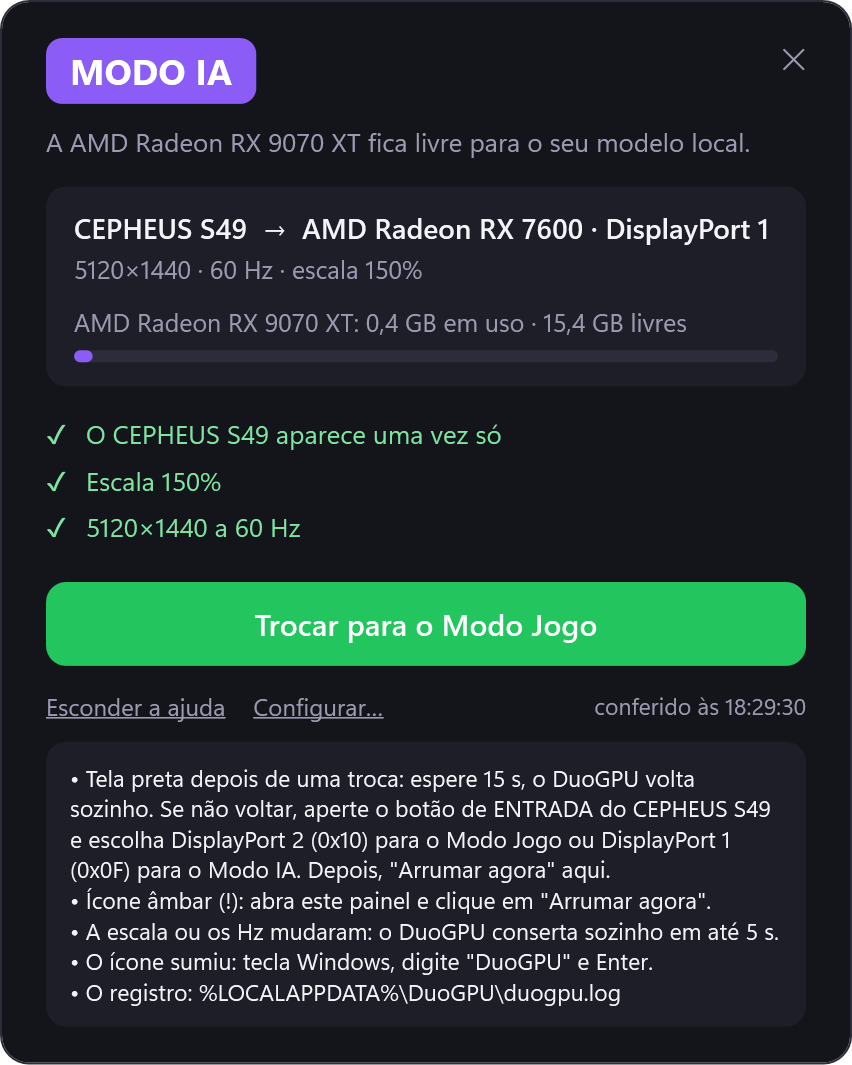
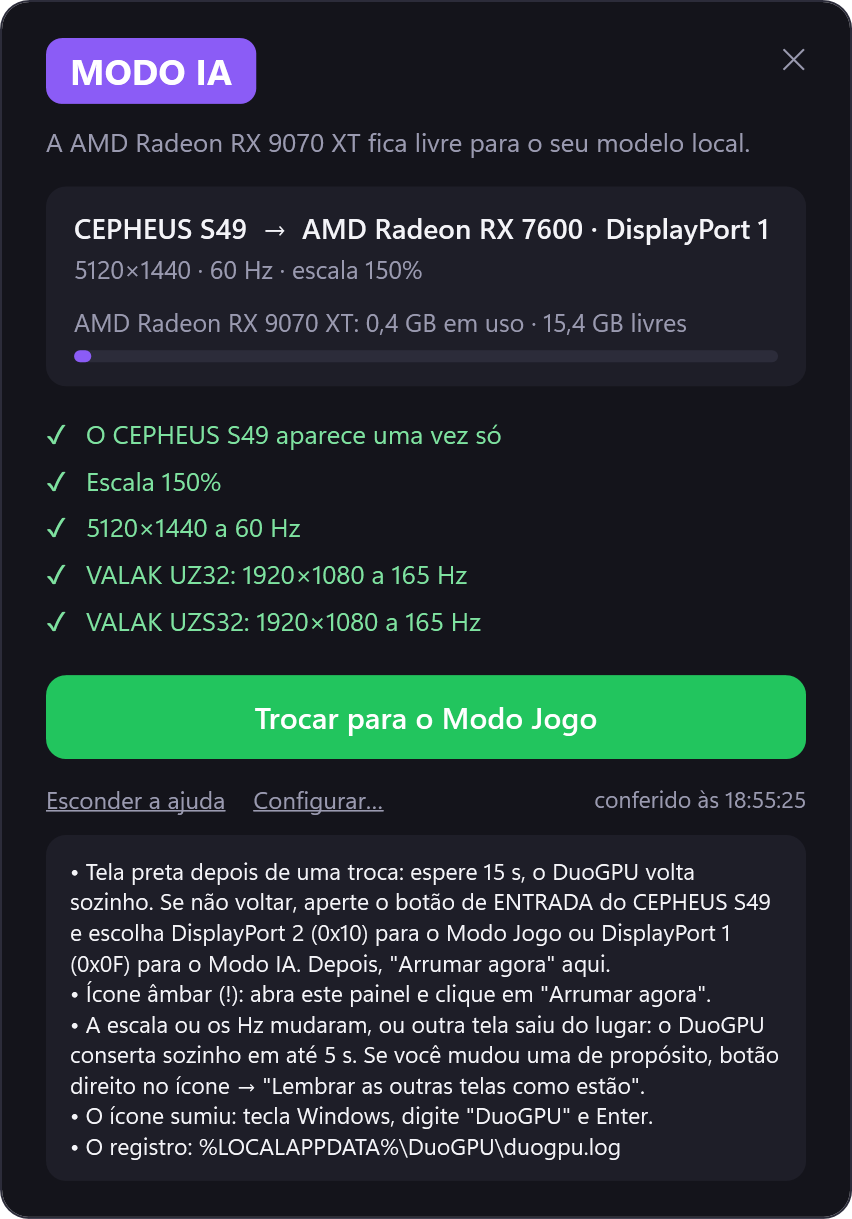
feat: the guard keeps the other monitors as saved
The setup saves the size, refresh rate and place of every monitor DuoGPU
does not move, and the guard checks them every 5 seconds: a monitor dropped
to 60 Hz or moved is put back, one that is off turns the icon amber.
"Remember the other monitors" and `remember` save them again; `fix` runs
the safe repairs once. Version 0.2.0.

diff --git a/tests/DuoGPU.Tests/CoreTests.cs b/tests/DuoGPU.Tests/CoreTests.cs
@@ -145,3 +145,80 @@ public class ConfigTests
         }
     }
 }
+
+public class OtherMonitorsTests
+{
+    const string Shared = "VIE0490";
+
+    static OutputInfo Out(string gdi, string monitor, int x, int y, int w = 1920, int h = 1080, int hz = 165, bool active = true) =>
+        new(gdi, null, 0, active, [monitor], active ? new Gdi.Placement(x, y, w, h, hz) : null);
+
+    static readonly OutputInfo[] Desk =
+    [
+        Out(@"\.\DISPLAY29", Shared, 0, 0, 5120, 1440, 60),
+        Out(@"\.\DISPLAY28", "MCR3150", 640, -1080),
+        Out(@"\.\DISPLAY30", "CJH3150", 2560, -1080),
+    ];
+
+    static Dictionary<string, SavedOutput> Saved() => new()
+    {
+        ["MCR3150"] = new(640, -1080, 1920, 1080, 165),
+        ["CJH3150"] = new(2560, -1080, 1920, 1080, 165),
+    };
+
+    static string Name(string id) => id;
+
+    [Fact]
+    public void Everything_in_place_gives_one_ok_line_per_monitor()
+    {
+        var checks = OtherMonitors.Compare(Saved(), Desk, Shared, Name);
+        Assert.Equal(2, checks.Count);
+        Assert.All(checks, c => Assert.True(c.Ok));
+        Assert.All(checks, c => Assert.Equal(CheckKind.OtherMode, c.Kind));
+    }
+
+    [Fact]
+    public void The_shared_monitor_is_never_one_of_the_others() =>
+        Assert.DoesNotContain(OtherMonitors.Compare(Saved(), Desk, Shared, Name), c => c.Detail.Contains(Shared));
+
+    [Fact]
+    public void A_lower_refresh_is_found_and_can_be_fixed()
+    {
+        var desk = Desk.ToArray();
+        desk[1] = Out(@"\.\DISPLAY28", "MCR3150", 640, -1080, hz: 60);
+        var bad = Assert.Single(OtherMonitors.Compare(Saved(), desk, Shared, Name), c => !c.Ok);
+        Assert.Equal(CheckKind.OtherMode, bad.Kind);
+        Assert.True(bad.SafeToFix);
+        Assert.Equal(@"\.\DISPLAY28", bad.Target);
+        Assert.Equal(165, bad.Want!.Hz);
+    }
+
+    [Fact]
+    public void A_moved_monitor_is_found_and_can_be_fixed()
+    {
+        var desk = Desk.ToArray();
+        desk[2] = Out(@"\.\DISPLAY30", "CJH3150", 5120, 0);
+        var bad = Assert.Single(OtherMonitors.Compare(Saved(), desk, Shared, Name), c => !c.Ok);
+        Assert.Equal(CheckKind.OtherPosition, bad.Kind);
+        Assert.Equal(new SavedOutput(2560, -1080, 1920, 1080, 165), bad.Want);
+    }
+
+    [Fact]
+    public void A_monitor_that_is_off_needs_the_person()
+    {
+        var desk = new[] { Desk[0], Desk[1], Out(@"\.\DISPLAY30", "CJH3150", 0, 0, active: false) };
+        var bad = Assert.Single(OtherMonitors.Compare(Saved(), desk, Shared, Name), c => !c.Ok);
+        Assert.Equal(CheckKind.OtherMissing, bad.Kind);
+        Assert.False(bad.SafeToFix);
+    }
+
+    [Fact]
+    public void Two_identical_models_are_kept_apart()
+    {
+        var desk = new[] { Desk[0], Out(@"\.\DISPLAY1", "DEL4141", 1920, -1080), Out(@"\.\DISPLAY2", "DEL4141", -1920, 0) };
+        var topo = new Topology { Gpus = [], Outputs = desk, MonitorNames = new Dictionary<string, string>() };
+        var saved = OtherMonitors.Capture(topo, Shared);
+        Assert.Equal(["DEL4141", "DEL4141#2"], saved.Keys.Order().ToArray());
+        Assert.Equal(-1920, saved["DEL4141"].X); // ordered left to right
+    }
+}

diff --git a/src/DuoGPU/Core/OtherMonitors.cs b/src/DuoGPU/Core/OtherMonitors.cs
@@ -1,0 +1,58 @@
+using DuoGPU.Native;
+
+namespace DuoGPU.Core;
+
+/// <summary>How a monitor that DuoGPU does not move was set up when the person saved it.</summary>
+public record SavedOutput(int X, int Y, int Width, int Height, int Hz);
+
+/// <summary>
+/// The monitors DuoGPU does not move. Their place, size and refresh are saved once (at setup, or with "Remember the
+/// other monitors"), and the guard checks them every few seconds: a switch, a driver reset or a game can change them.
+/// </summary>
+public static class OtherMonitors
+{
+    /// <summary>The key of each monitor: its Windows name ("MCR3150"), with "#2", "#3" for identical models.</summary>
+    static List<(string key, OutputInfo output)> Keyed(IEnumerable<OutputInfo> outputs, string sharedMonitor)
+    {
+        var list = new List<(string, OutputInfo)>();
+        var seen = new Dictionary<string, int>();
+        foreach (var o in outputs.Where(o => o.Active && o.Placement != null && !o.MonitorIds.Contains(sharedMonitor))
+                     .OrderBy(o => o.Placement!.X).ThenBy(o => o.Placement!.Y))
+        {
+            var id = o.MonitorIds.FirstOrDefault() ?? o.GdiName;
+            int n = seen[id] = seen.GetValueOrDefault(id) + 1;
+            list.Add((n == 1 ? id : $"{id}#{n}", o));
+        }
+        return list;
+    }
+
+    public static Dictionary<string, SavedOutput> Capture(Topology topo, string sharedMonitor) =>
+        Keyed(topo.Outputs, sharedMonitor).ToDictionary(
+            x => x.key,
+            x => new SavedOutput(x.output.Placement!.X, x.output.Placement.Y, x.output.Placement.Width,
+                x.output.Placement.Height, x.output.Placement.Hz));
+
+    /// <summary>One check per saved monitor: still on, same size and refresh, same place.</summary>
+    public static List<Check> Compare(IReadOnlyDictionary<string, SavedOutput> saved, IEnumerable<OutputInfo> outputs,
+        string sharedMonitor, Func<string, string> nameOf)
+    {
+        var now = Keyed(outputs, sharedMonitor).ToDictionary(x => x.key, x => x.output);
+        var checks = new List<Check>();
+        foreach (var (key, want) in saved)
+        {
+            string name = nameOf(key.Split('#')[0]);
+            if (!now.TryGetValue(key, out var o))
+            {
+                checks.Add(new Check(false, CheckKind.OtherMissing, name, false));
+                continue;
+            }
+            var p = o.Placement!;
+            bool sameMode = p.Width == want.Width && p.Height == want.Height && p.Hz == want.Hz;
+            checks.Add(new Check(sameMode, CheckKind.OtherMode,
+                $"{name}|{p.Width}×{p.Height}|{p.Hz}|{want.Width}×{want.Height}|{want.Hz}", true, o.GdiName, want));
+            if (p.X != want.X || p.Y != want.Y)
+                checks.Add(new Check(false, CheckKind.OtherPosition, name, true, o.GdiName, want));
+        }
+        return checks;
+    }
+}

diff --git a/src/DuoGPU/UI/Strings.cs b/src/DuoGPU/UI/Strings.cs
@@ -69,9 +69,17 @@ public static partial class S
                 : T($"Scale {p[0]} (should be {p[1]})", $"Escala {p[0]} (o certo: {p[1]})"),
             CheckKind.Refresh => c.Ok ? T($"{p[0]} at {p[1]} Hz", $"{p[0]} a {p[1]} Hz")
                 : T($"{p[0]} at {p[1]} Hz (should be {p[2]} Hz)", $"{p[0]} a {p[1]} Hz (o certo: {p[2]} Hz)"),
+            CheckKind.OtherMissing => T($"{c.Detail} is off", $"O {c.Detail} está desligado"),
+            CheckKind.OtherMode => c.Ok ? T($"{p[0]}: {p[1]} at {p[2]} Hz", $"{p[0]}: {p[1]} a {p[2]} Hz")
+                : T($"{p[0]}: {p[1]} at {p[2]} Hz (should be {p[3]} at {p[4]} Hz)", $"{p[0]}: {p[1]} a {p[2]} Hz (o certo: {p[3]} a {p[4]} Hz)"),
+            CheckKind.OtherPosition => T($"{c.Detail} moved from its place", $"O {c.Detail} saiu do lugar"),
             _ => c.Detail,
         };
     }
+
+    public static string RememberOthers => T("Remember the other monitors as they are", "Lembrar as outras telas como estão");
+    public static string RememberedOthers(int n) => T($"Saved {n} other monitor(s): the guard keeps them this way.",
+        $"{n} outra(s) tela(s) guardada(s): o guarda mantém assim.");
 
     public static string OnceOnly(string monitor) => T($"{monitor} shows up once", $"O {monitor} aparece uma vez só");
 
@@ -83,14 +91,14 @@ public static partial class S
             $"""
             • Black screen after a switch: wait {seconds} s, DuoGPU goes back by itself. If it does not, press the INPUT button on {monitor} and pick {game} for Game mode or {ai} for AI mode. Then click "Fix now" here.
             • Amber icon (!): open this panel and click "Fix now".
-            • The scale or the refresh changed: DuoGPU puts them back within 5 s.
+            • The scale or the refresh changed, or another monitor moved: DuoGPU puts them back within 5 s. If you changed one on purpose, right-click the icon → "Remember the other monitors as they are".
             • The icon is gone: press Windows, type "DuoGPU" and press Enter.
             • The log: %LOCALAPPDATA%\DuoGPU\duogpu.log
             """,
             $"""
             • Tela preta depois de uma troca: espere {seconds} s, o DuoGPU volta sozinho. Se não voltar, aperte o botão de ENTRADA do {monitor} e escolha {game} para o Modo Jogo ou {ai} para o Modo IA. Depois, "Arrumar agora" aqui.
             • Ícone âmbar (!): abra este painel e clique em "Arrumar agora".
-            • A escala ou os Hz mudaram: o DuoGPU conserta sozinho em até 5 s.
+            • A escala ou os Hz mudaram, ou outra tela saiu do lugar: o DuoGPU conserta sozinho em até 5 s. Se você mudou uma de propósito, botão direito no ícone → "Lembrar as outras telas como estão".
             • O ícone sumiu: tecla Windows, digite "DuoGPU" e Enter.
             • O registro: %LOCALAPPDATA%\DuoGPU\duogpu.log
             """);

diff --git a/src/DuoGPU/Program.cs b/src/DuoGPU/Program.cs
@@ -20,6 +20,8 @@ public static class Program
           DuoGPU.exe ai           AI mode: the shared monitor on the smaller GPU
           DuoGPU.exe game         Game mode: the shared monitor on the big GPU
           DuoGPU.exe toggle       the other mode
+          DuoGPU.exe fix          the guard's safe repairs, once (scale, tested refresh, other monitors)
+          DuoGPU.exe remember     save the other monitors as they are now (the guard keeps them that way)
             --no-confirm          skip the "Can you see this?" window (scripts; use only after a tested switch)
         """;
 
@@ -84,6 +86,24 @@ public static class Program
                     : new Switcher(cfg).SwitchAsync(mode, null).GetAwaiter().GetResult();
                 Console.WriteLine($"{result.Mode}: {result.Message}");
                 return result.Ok ? 0 : 1;
+            case "fix": // the guard's safe repairs, once
+                var before = Status.Read(cfg, withVram: false);
+                bool fixedSomething = new Switcher(cfg).FixSafe(before);
+                var after = Status.Read(cfg, withVram: false);
+                Console.WriteLine(fixedSomething ? "Put back what was safe to fix." : "Nothing safe to fix.");
+                foreach (var c in after.Checks) Console.WriteLine($"  {(c.Ok ? "ok" : "!!")} {c.Kind} {c.Detail}");
+                return after.Checks.All(c => c.Ok) ? 0 : 1;
+            case "remember": // the other monitors, as they are now
+                if (!cfg.IsComplete)
+                {
+                    Console.Error.WriteLine("Run DuoGPU once to set it up first.");
+                    return 2;
+                }
+                cfg.OtherMonitors = OtherMonitors.Capture(Topology.Read(), cfg.SharedMonitor!);
+                cfg.Save();
+                foreach (var (k, v) in cfg.OtherMonitors) Console.WriteLine($"  {k}: {v.Width}x{v.Height}@{v.Hz} at ({v.X},{v.Y})");
+                Console.WriteLine($"Saved {cfg.OtherMonitors.Count} other monitor(s).");
+                return 0;
             case "render": // the README images, from the real panel code
                 return UI.Screenshots.Render(args.Skip(1).FirstOrDefault(a => !a.StartsWith("--")) ?? "docs/images");
             default:

diff --git a/src/DuoGPU/Core/Switcher.cs b/src/DuoGPU/Core/Switcher.cs
@@ -184,25 +184,30 @@ public sealed class Switcher(Config cfg)
         }
     }
 
-    /// <summary>The guard's repairs that never take the picture away: the scale and the best tested refresh.</summary>
+    /// <summary>The guard's repairs that never take the picture away: the scale and the best tested refresh of the
+    /// shared monitor, and the saved size, refresh and place of the other monitors (a state that already showed a
+    /// picture on that same cable).</summary>
     public bool FixSafe(Status st)
     {
-        if (IsBusy || st.SharedOutput is not { Gpu: not null, Placement: not null } o) return false;
-        bool changed = false;
+        if (IsBusy) return false;
+        bool changed = false, staged = false;
         foreach (var c in st.Checks.Where(c => !c.Ok && c.SafeToFix))
         {
-            if (c.Kind == CheckKind.Scale && cfg.Scale is int s)
+            if (c.Kind == CheckKind.Scale && cfg.Scale is int s && st.SharedOutput?.Gpu is { } g)
             {
-                changed |= DisplayConfig.SetScale(o.Gpu.Luid, o.SourceId, s);
+                changed |= DisplayConfig.SetScale(g.Luid, st.SharedOutput.SourceId, s);
             }
-            else if (c.Kind == CheckKind.Refresh && st.BestHz is int hz)
+            else if (c.Kind == CheckKind.Refresh && st.BestHz is int hz && st.SharedOutput is { Placement: { } p } o)
             {
-                var p = o.Placement;
-                Gdi.Stage(o.GdiName, p.X, p.Y, p.Width, p.Height, hz, o.IsPrimary);
-                changed |= Gdi.ApplyStaged() == 0;
+                staged |= Gdi.Stage(o.GdiName, p.X, p.Y, p.Width, p.Height, hz, o.IsPrimary) == 0;
+            }
+            else if (c.Kind is CheckKind.OtherMode or CheckKind.OtherPosition && c.Target != null && c.Want is { } w)
+            {
+                staged |= Gdi.Stage(c.Target, w.X, w.Y, w.Width, w.Height, w.Hz, false) == 0;
             }
         }
-        if (changed) Log.Write("guard: put back the scale or the refresh");
+        if (staged) changed |= Gdi.ApplyStaged() == 0;
+        if (changed) Log.Write("guard: put back " + string.Join(", ", st.Checks.Where(c => !c.Ok && c.SafeToFix).Select(c => c.Kind)));
         return changed;
     }
 }

diff --git a/src/DuoGPU/Core/Status.cs b/src/DuoGPU/Core/Status.cs
@@ -2,9 +2,11 @@ using DuoGPU.Native;
 
 namespace DuoGPU.Core;
 
-public enum CheckKind { DuplicateMonitor, NoOutput, Scale, Refresh, Primary }
+public enum CheckKind { DuplicateMonitor, NoOutput, Scale, Refresh, Primary, OtherMissing, OtherMode, OtherPosition }
 
-public record Check(bool Ok, CheckKind Kind, string Detail, bool SafeToFix);
+/// <param name="Target">The output a safe fix acts on, when it is not the shared monitor.</param>
+/// <param name="Want">What that output should look like.</param>
+public record Check(bool Ok, CheckKind Kind, string Detail, bool SafeToFix, string? Target = null, SavedOutput? Want = null);
 
 /// <summary>The current mode and everything the guard checks, read every few seconds.</summary>
 public sealed class Status
@@ -62,6 +64,10 @@ public sealed class Status
                     checks.Add(new Check(p.Hz == b, CheckKind.Refresh, $"{p.Width}×{p.Height}|{p.Hz}|{b}", true));
             }
         }
+
+        // the monitors DuoGPU does not move: still on, same size, refresh and place as saved
+        if (cfg.OtherMonitors.Count > 0)
+            checks.AddRange(OtherMonitors.Compare(cfg.OtherMonitors, topo.Outputs, monitor, topo.MonitorName));
 
         ulong? used = null;
         if (withVram && ai != null) used = Gpus.VramInUse(ai.Luid);

diff --git a/src/DuoGPU/UI/TrayApp.cs b/src/DuoGPU/UI/TrayApp.cs
@@ -47,6 +47,7 @@ public sealed class TrayApp
         menu.Items.Add(S.OpenPanel, null, (_, _) => panel.ShowNearTray());
         var toggle = menu.Items.Add("", null, (_, _) => SwitchTo(Current.Mode == Mode.Ai ? Mode.Game : Mode.Ai));
         menu.Items.Add(S.FixNow, null, (_, _) => Fix());
+        menu.Items.Add(S.RememberOthers, null, (_, _) => RememberOthers());
         menu.Items.Add(S.Settings, null, (_, _) => OpenSetup());
         menu.Items.Add(new Forms.ToolStripSeparator());
         menu.Items.Add(S.Quit, null, (_, _) => Quit());
@@ -124,6 +125,16 @@ public sealed class TrayApp
     {
         var mode = Current.Mode != Mode.Unknown ? Current.Mode : Config.LastMode != Mode.Unknown ? Config.LastMode : Mode.Ai;
         _ = SwitchToAsync(mode, force: true);
+    }
+
+    /// <summary>Saves the other monitors as they are now, after the person changed one on purpose.</summary>
+    public void RememberOthers()
+    {
+        if (!Config.IsComplete) return;
+        Config.OtherMonitors = OtherMonitors.Capture(Topology.Read(), Config.SharedMonitor!);
+        Config.Save();
+        icon.ShowBalloonTip(4000, "DuoGPU", S.RememberedOthers(Config.OtherMonitors.Count), Forms.ToolTipIcon.Info);
+        _ = CheckAsync();
     }
 
     public void OpenSetup()

diff --git a/src/DuoGPU/UI/Screenshots.cs b/src/DuoGPU/UI/Screenshots.cs
@@ -70,10 +70,12 @@ public static class Screenshots
         string size = $"{p.Width}×{p.Height}";
         int aiHz = cfg.MaxHzFor(other.Key) ?? p.Hz, gameHz = cfg.MaxHzFor(ai.Key) ?? p.Hz;
         string sc = $"{live.Scale}%";
+        var others = live.Checks.Where(c => c.Kind == CheckKind.OtherMode && c.Ok).ToList();
         List<Check> Ok(int hz) =>
         [
             new(true, CheckKind.Scale, $"{sc}|{sc}", true),
             new(true, CheckKind.Refresh, $"{size}|{hz}|{hz}", true),
+            .. others,
         ];
         const ulong gb = 1UL << 30;
         // AI mode: live from this PC when it is in AI mode, otherwise the value measured on 12/11/2026 (0.44 GB)
@@ -86,6 +88,7 @@ public static class Screenshots
         [
             new(false, CheckKind.Scale, $"100%|{sc}", true),
             new(true, CheckKind.Refresh, $"{size}|{aiHz}|{aiHz}", true),
+            .. others,
         ]), false);
         yield return ("help", With(Mode.Ai, other, aiHz, aiVram, Ok(aiHz)), true);
     }

diff --git a/src/DuoGPU/Core/Config.cs b/src/DuoGPU/Core/Config.cs
@@ -34,6 +34,9 @@ public sealed class Config
     /// <summary>The scale to keep on the shared monitor (Windows resets it when the cable changes). Null = leave it.</summary>
     public int? Scale { get; set; }
 
+    /// <summary>The monitors DuoGPU does not move, as they were saved: the guard keeps them that way.</summary>
+    public Dictionary<string, SavedOutput> OtherMonitors { get; set; } = [];
+
     public int ConfirmSeconds { get; set; } = 15;
 
     /// <summary>The guard puts back the scale and the best refresh by itself.</summary>

diff --git a/src/DuoGPU/UI/SetupWindow.cs b/src/DuoGPU/UI/SetupWindow.cs
@@ -352,6 +352,7 @@ public sealed class SetupWindow : Window
         cfg.Scale = scaleIndex > 0 ? Native.DisplayConfig.ScaleSteps[scaleIndex - 1] : null;
         cfg.Language = languageIndex switch { 1 => "en", 2 => "pt-BR", _ => null };
         foreach (var kv in Saved.MaxHzByGpu) cfg.MaxHzByGpu.TryAdd(kv.Key, kv.Value);
+        cfg.OtherMonitors = OtherMonitors.Capture(Topology.Read(), cfg.SharedMonitor!);
         SetAutostart(autostart);
         app?.UseConfig(cfg);
     }

diff --git a/README.pt-BR.md b/README.pt-BR.md
@@ -101,7 +101,7 @@ Uma troca segue uma ordem testada no hardware de verdade:
    DuoGPU desfaz a troca, como o Windows faz depois de mudar a resolução.
 
 Um **guarda** confere as telas a cada 5 segundos. Ele conserta sozinho o que nunca apaga a tela (a escala, o Hz
-testado) e deixa o ícone âmbar, com o botão *Arrumar agora*, para o resto, como o monitor aparecendo duas vezes.
+testado e o tamanho, os Hz e a posição dos seus *outros* monitores, como você guardou) e deixa o ícone âmbar, com o botão *Arrumar agora*, para o resto, como o monitor aparecendo duas vezes.
 
 > **Por que um limite de Hz testado?** O driver pode oferecer um Hz que o cabo ou a porta não aguentam. No meu PC, o
 > Windows ofereceu 120 Hz no caminho DisplayPort da placa fraca, e a tela ficou preta a 75, 100 e 120 Hz; a 60 Hz deu
@@ -146,6 +146,8 @@ DuoGPU.exe status       o modo atual e as conferências do guarda
 DuoGPU.exe ai           o Modo IA
 DuoGPU.exe game         o Modo Jogo
 DuoGPU.exe toggle       o outro modo
+DuoGPU.exe fix          os consertos seguros do guarda, uma vez
+DuoGPU.exe remember     guarda os outros monitores como estão agora
   --no-confirm          sem o "Você está vendo?" (para scripts, só depois de uma troca testada)
 ```
 

diff --git a/docs/how-it-works.pt-BR.md b/docs/how-it-works.pt-BR.md
@@ -69,6 +69,7 @@ que o Gerenciador de Tarefas mostra.
 | O monitor compartilhado está ligado por **alguma** placa | Um cabo solto ou um reinício do driver podem deixar ele desligado. | O ícone fica âmbar, com o **Arrumar agora**. |
 | A **escala** é a que você escolheu | O Windows zera a escala quando o cabo muda. | Ele conserta sozinho (isso nunca apaga uma tela). |
 | Os **Hz** são o melhor valor dentro do limite testado | O Windows ou um jogo podem deixar o monitor num Hz menor; um maior pode apagar a tela. | Ele conserta sozinho, **só num caminho cujo limite foi testado** com você olhando. |
+| Os seus **outros monitores** mantêm o tamanho, os Hz e a posição que você guardou | Uma troca, um reinício do driver ou um jogo podem baixar um monitor para 60 Hz ou mudar ele de lugar. | Ele conserta sozinho, de volta ao estado guardado (que já deu imagem naquele cabo). Um monitor desligado deixa o ícone âmbar. Se você mudar um de propósito, botão direito no ícone → *Lembrar as outras telas como estão* (ou `DuoGPU.exe remember`). |
 
 O guarda lê ao mesmo tempo a VRAM em uso na placa forte, para o painel.
 
